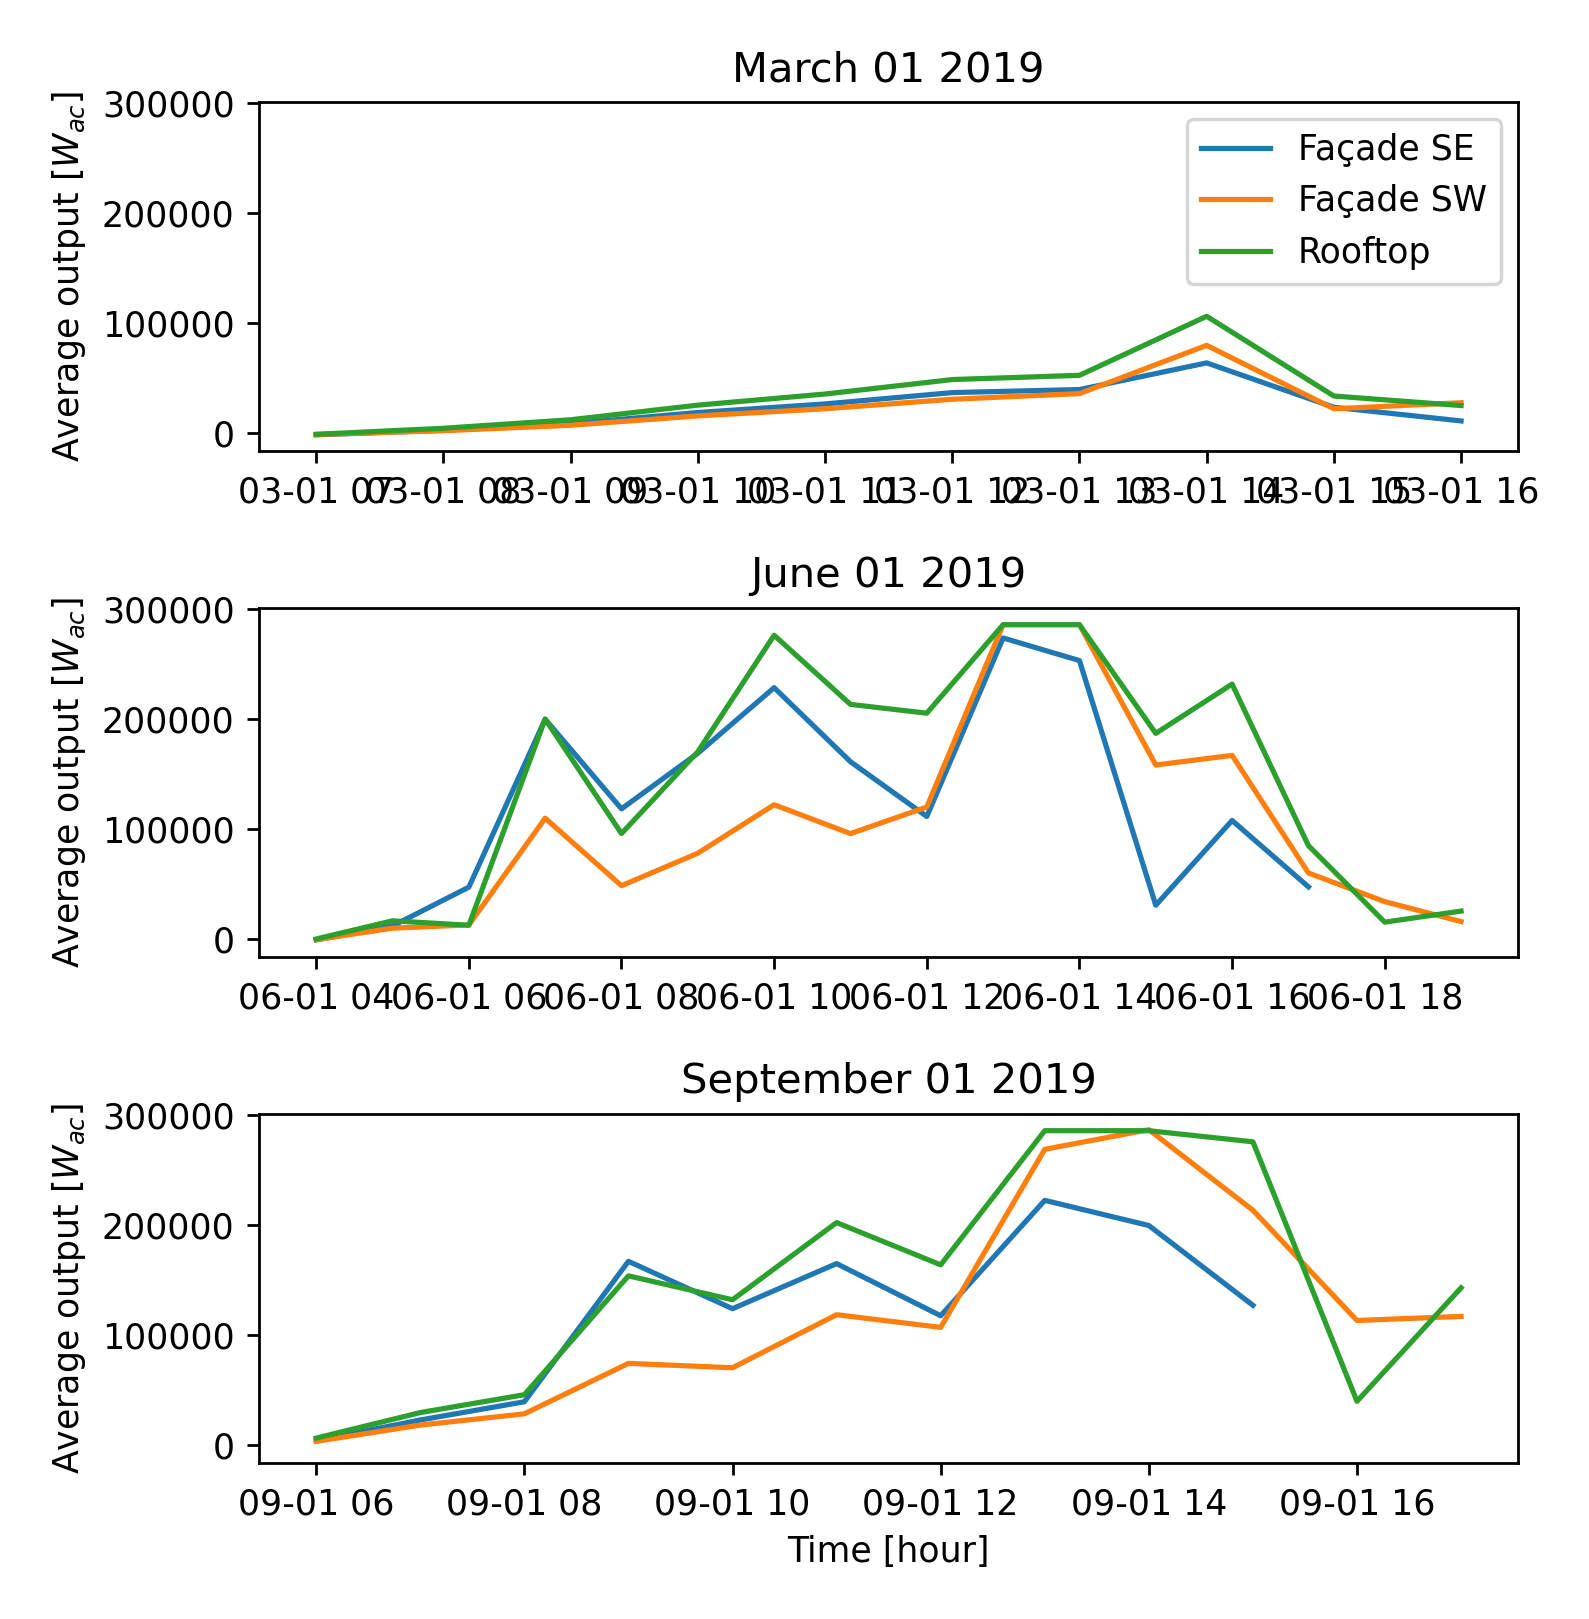
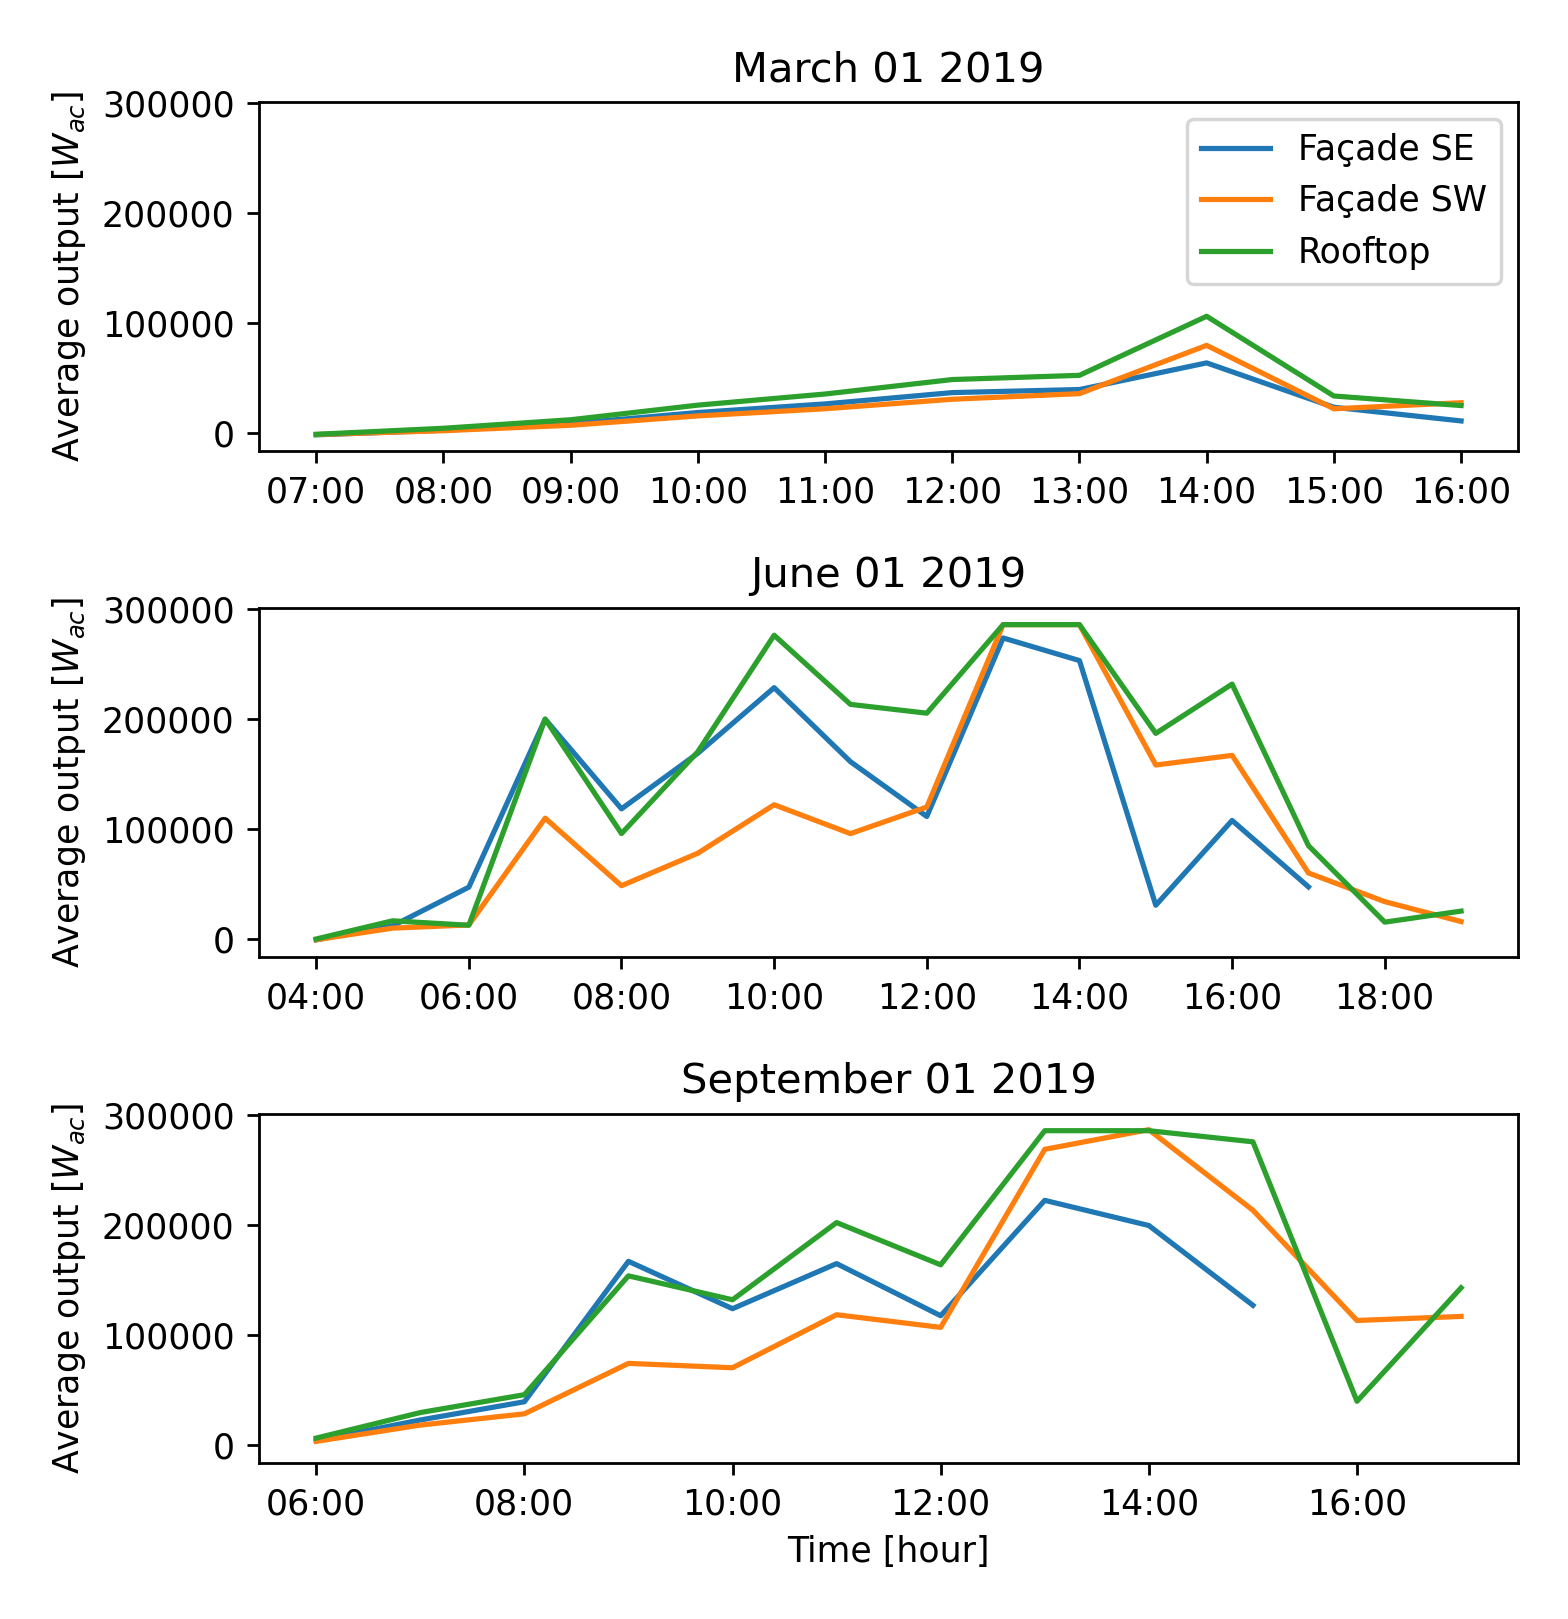
Format the ticks on the x axis better

diff --git a/src/question3.py b/src/question3.py
@@ -3,6 +3,7 @@
 import pandas as pd
 import datetime
 import matplotlib.pyplot as plt
+import matplotlib.dates as mdates
 import math
 import json
 import utils
@@ -124,6 +125,7 @@ def create_line_chart_for_day(dates):
             # Create a subplot and plot a line for each subplot
             subplot = axes[index]
             subplot.title.set_text(datetime.datetime.strptime(date, '%Y-%m-%d').strftime("%B %d %Y"))
+            subplot.xaxis.set_major_formatter(mdates.DateFormatter('%H:%M'))
             for facade in power_per_facade:
                 subplot.plot(power_per_facade[facade], label=facade)
             
